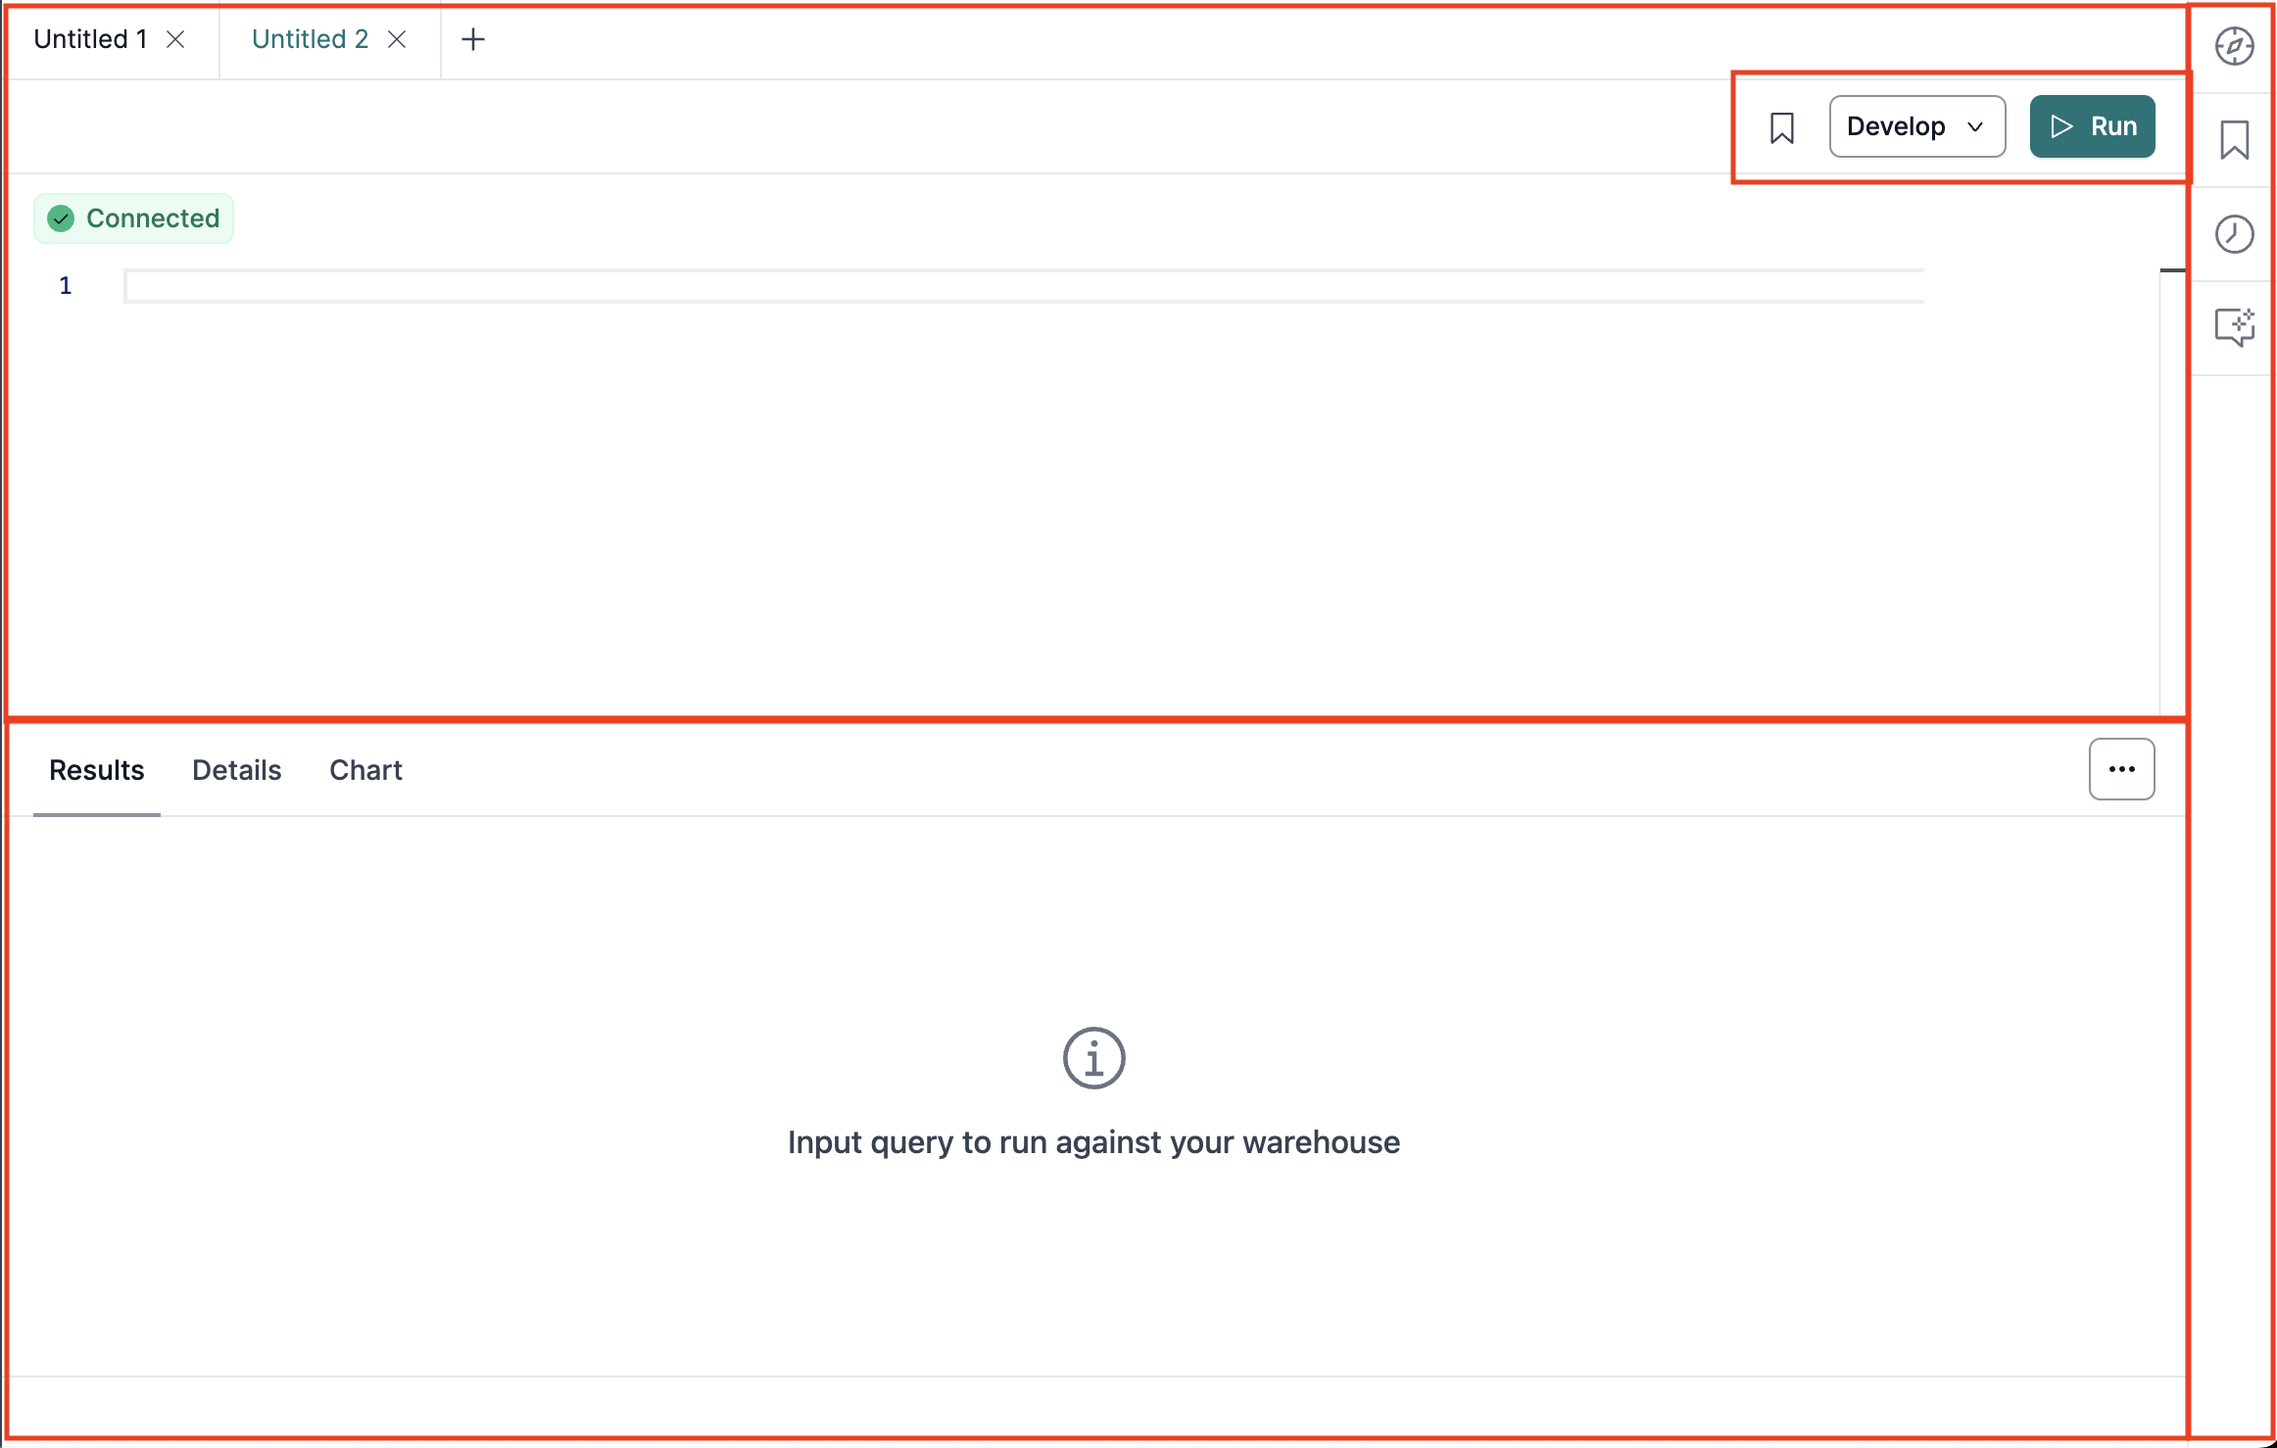
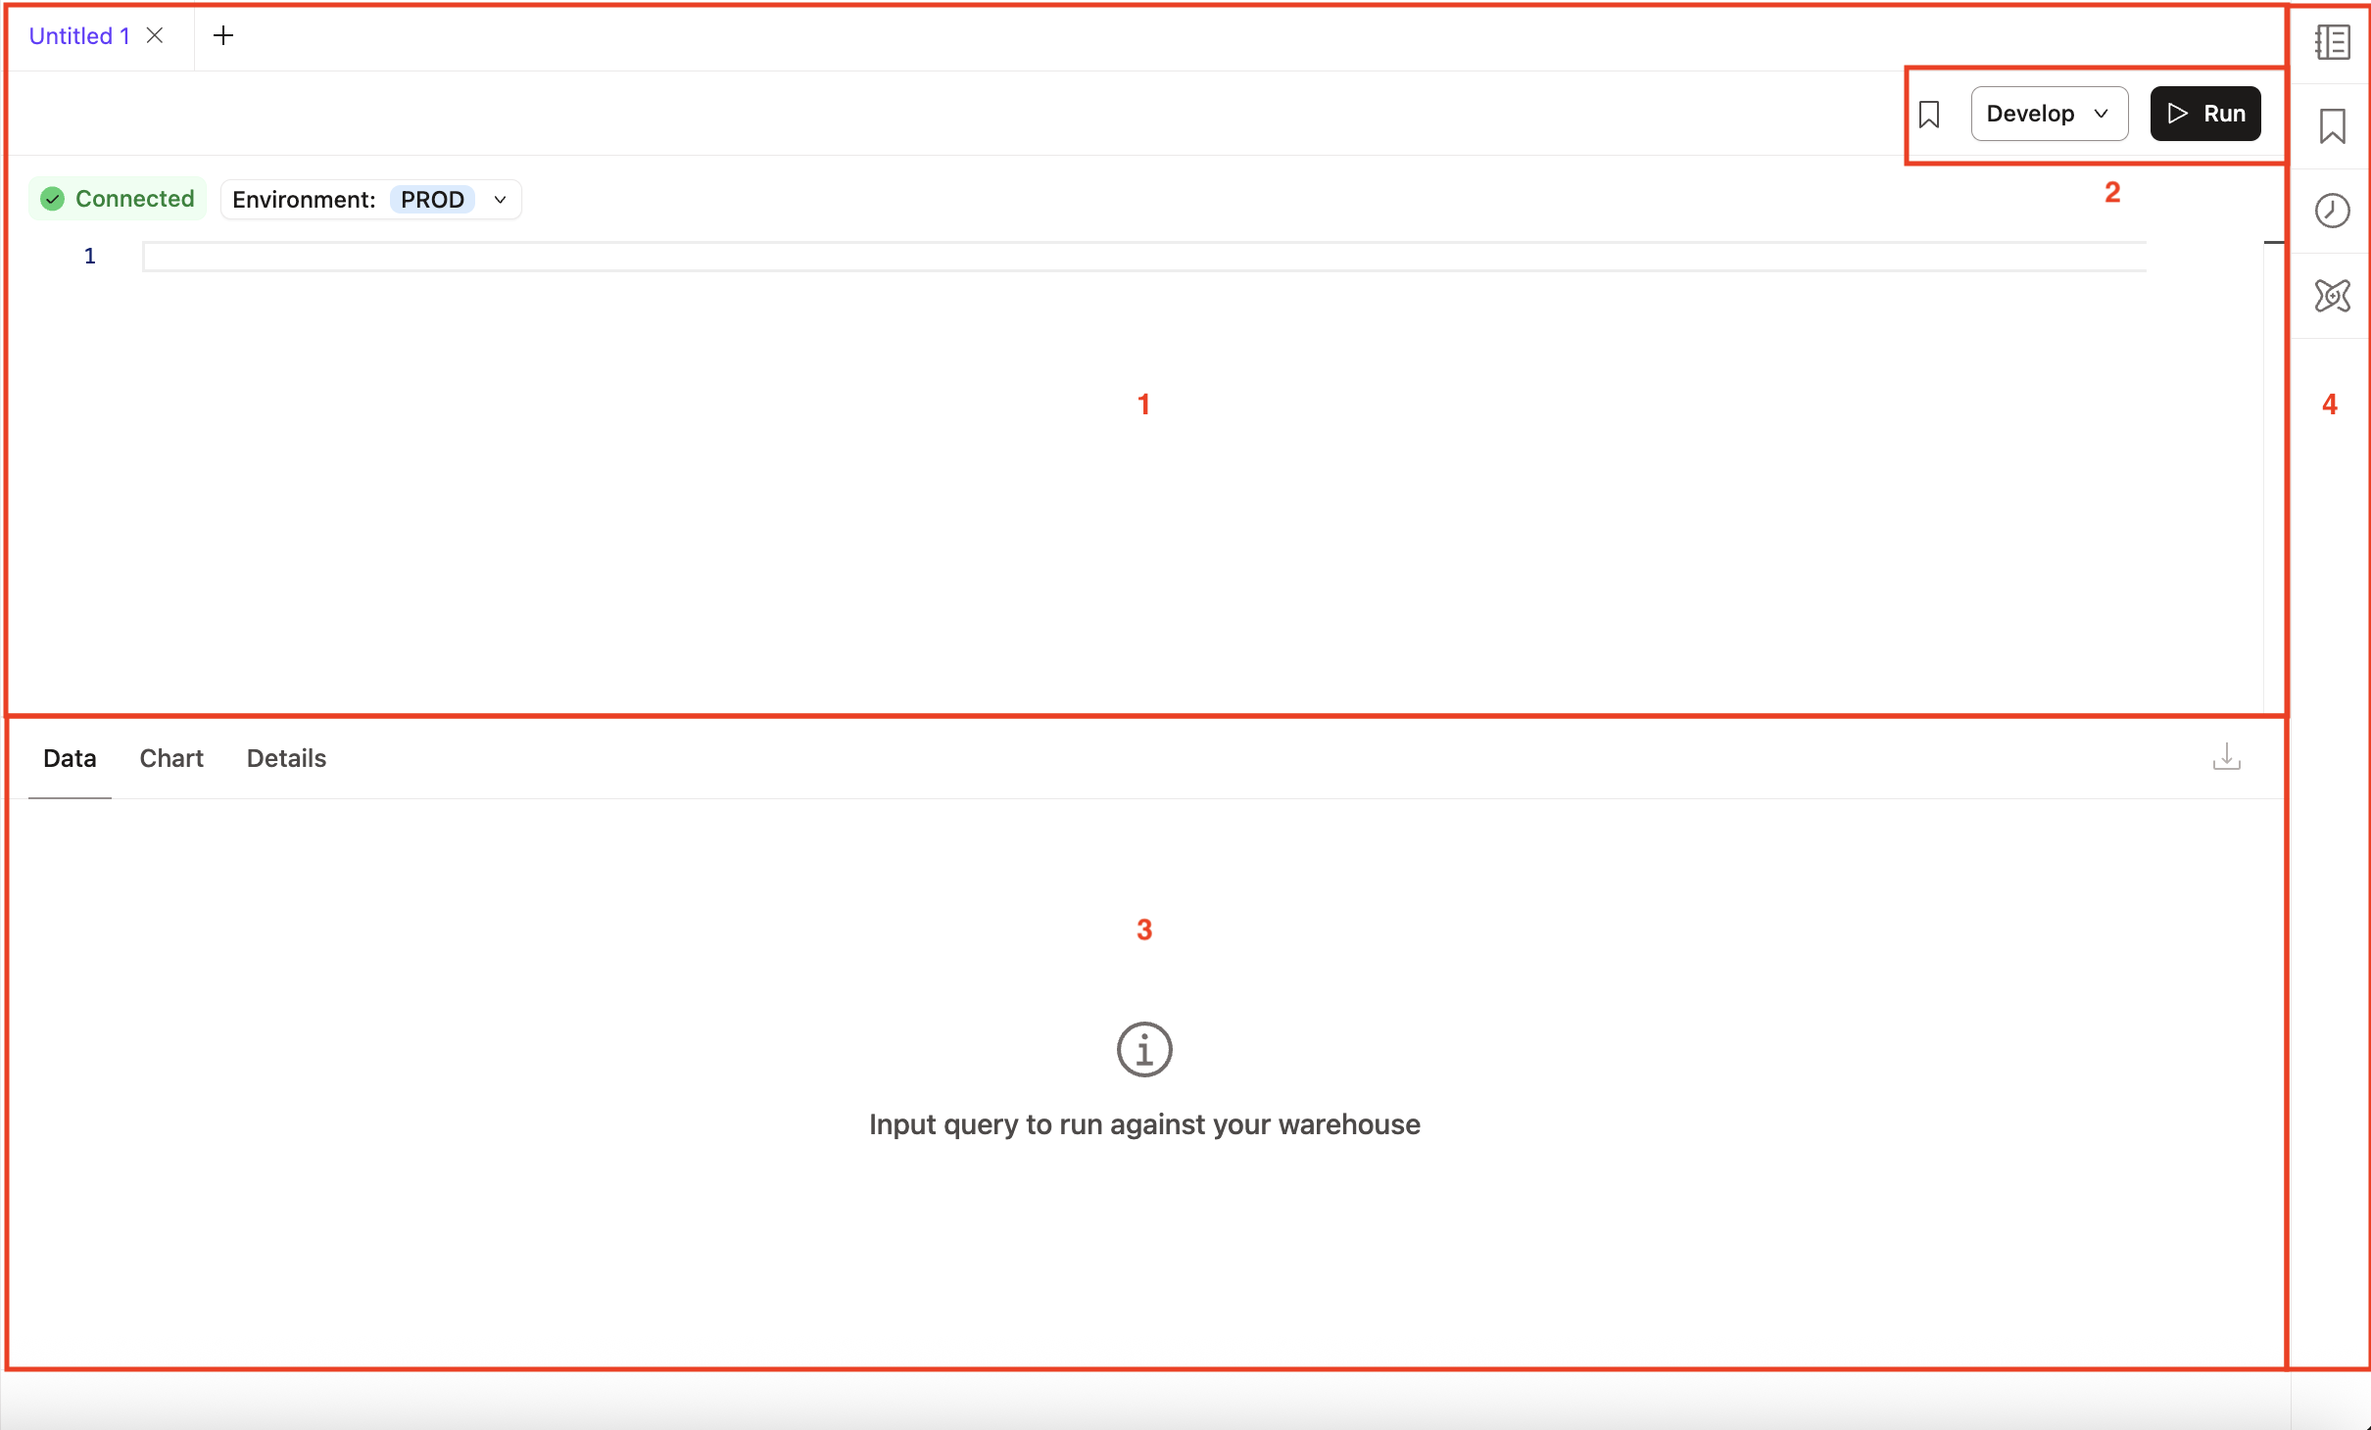
dbt Insights Copilot agent

diff --git a/website/docs/docs/explore/navigate-dbt-insights.md b/website/docs/docs/explore/navigate-dbt-insights.md
@@ -16,13 +16,13 @@ Learn how to navigate <Constant name="query_page" /> interface and use the main 
 
 ## Query console
 The query console is the main component of <Constant name="query_page" />. It allows you to write, run, and analyze SQL queries. The Query console supports:
-- Query console editor, which allows you to write, run, and analyze SQL queries:
+1. Query console editor, which allows you to write, run, and analyze SQL queries:
   - It supports syntax highlighting and autocomplete suggestions 
   - Hyperlink from SQL code `ref` to the corresponding Explorer page
-- [Query console menu](#query-console-menu), which contains **Bookmark (icon)**, **Develop**, and **Run** buttons. 
-- [Query output panel](#query-output-panel), below the query editor and displays the results of a query:
-  - Has three tabs: **Results**, **Details**, and **Chart**, which allow you to analyze query execution and visualize results.
-- [Query console sidebar menu](#query-console-sidebar-menu), which contains the **<Constant name="explorer" />**, **Bookmark**, **Query history**, and **<Constant name="copilot" />** icons.
+2. [Query console menu](#query-console-menu), which contains **Bookmark (icon)**, **Develop**, and **Run** buttons. 
+3. [Query output panel](#query-output-panel), below the query editor and displays the results of a query:
+  - Has three tabs: **Data**, **Chart**, and **Details**, which allow you to analyze query execution and visualize results.
+4. [Query console sidebar menu](#query-console-sidebar-menu), which contains the **<Constant name="explorer" />**, **Bookmark**, **Query history**, and **<Constant name="copilot" />** icons.
 
 <Lightbox src="/img/docs/dbt-insights/insights-main.png" title="dbt Insights main interface with blank query editor" />
 
@@ -34,14 +34,12 @@ The Query console menu is located at the top right of the Query editor. It conta
   - Let [<Constant name="copilot" />](/docs/cloud/dbt-copilot) do the writing for you &mdash; use the AI assistant to automatically generate a helpful description for your bookmark.
   - Access the newly created bookmark from the **Bookmark** icon in the [Query console sidebar menu](#query-console-sidebar-menu). 
  - **Develop**: Open the [<Constant name="cloud_ide" />](/docs/cloud/dbt-cloud-ide/develop-in-the-cloud) or [<Constant name="visual_editor" />](/docs/cloud/canvas) to continue editing your SQL query.
-- **Run** button &mdash; Run your SQL query and view the results in the **Results** tab.
-
-  <Lightbox src="/img/docs/dbt-insights/develop-menu.png" title="dbt Insights Develop menu." />
+- **Run** button &mdash; Run your SQL query and view the results in the **Data** tab.
 
 ## Query output panel
 
 The Query output panel is below the query editor and displays the results of a query. It displays the following tabs to analyze query execution and visualize results:
-- **Results** tab &mdash; Preview your SQL results, with results paginated.
+- **Data** tab &mdash; Preview your SQL results, with results paginated.
 - **Details** tab &mdash; Generates succinct details of executed SQL query:
   - Query metadata &mdash; <Constant name="copilot" />'s AI-generated title and description. Along with the supplied SQL and compiled SQL.
   - Connection details &mdash; Relevant data platform connection information.
@@ -57,17 +55,57 @@ The Query output panel is below the query editor and displays the results of a q
 <Lightbox src="/img/docs/dbt-insights/insights-details.png" width="95%" title="dbt Insights Details tab" />
 <Lightbox src="/img/docs/dbt-insights/insights-chart.png" width="95%" title="dbt Insights Chart tab" />
 </DocCarousel>
+<!--need to update-->
 
 ## Query console sidebar menu
 The Query console sidebar menu and icons contains the following options:
-- **<Constant name="explorer" /> icon** &mdash; View your project's models, columns, metrics, and more using the integrated <Constant name="explorer" /> view.
-- **Bookmark icon** &mdash; Save and access your frequently used queries. 
-- **Query history icon** &mdash; View past queries, their statuses (All, Success, Error, or Pending), start time, and duration. Search for past queries and filter by status. You can also re-run a query from the Query history.
-- **<Constant name="copilot" /> icon** &mdash; Use [<Constant name="copilot" />'s AI assistant](/docs/cloud/dbt-copilot) to modify or generate queries using natural language prompts.
 
-<DocCarousel slidesPerView={1}>
+### dbt Catalog
+
+**<Constant name="explorer" /> icon** &mdash; View your project's models, columns, metrics, and more using the integrated <Constant name="explorer" /> view.
+
 <Lightbox src="/img/docs/dbt-insights/insights-explorer.png" width="90%" title="dbt Insights dbt Catalog icon" />
+<!--need to update-->
+
+### Bookmark 
+
+Save and access your frequently used queries. 
+
+<Lightbox src="/img/docs/dbt-insights/manage-bookmarks.png" width="60%" title="Manage your query bookmarks" /> 
+<!--need to update-->
+
+### Query history
+
+View past queries, their statuses (All, Success, Error, or Pending), start time, and duration. Search for past queries and filter by status. You can also re-run a query from the Query history.
+
 <Lightbox src="/img/docs/dbt-insights/insights-query-history.png" width="90%" title="dbt Insights Query history icon" />
-<Lightbox src="/img/docs/dbt-insights/insights-copilot.png" width="60%" title="dbt Insights dbt Copilot" />
-<Lightbox src="/img/docs/dbt-insights/manage-bookmarks.png" width="60%" title="Manage your query bookmarks" />
-</DocCarousel>
+<!--need to update-->
+
+### dbt Copilot
+
+Use [dbt <Constant name="copilot" />'s AI assistant](/docs/cloud/dbt-copilot) to modify or generate queries using natural language prompts or to chat with the <Constant name="copilot" /> agent to gather insights about your data. The <Constant name="copilot" />'s AI assistant has two tabs:
+
+- **Text to SQL** - Build queries in <Constant name="query_page" /> with natural language prompts to explore and query data with an intuitive, context-rich interface. For more information, see [Build queries](/docs/cloud/use-dbt-copilot#build-queries).
+
+  <!--insert screenshot-->
+
+- **Analysis**<Lifecycle status='preview' /> - Ask questions to the <Constant name="copilot" /> agent to get intelligent data analysis with automated workflows, governed insights, and actionable recommendations. This is a conversational AI feature where you can ask natural language prompts and receive analysis in real-time. Some sample questions: 
+
+  - _What region are my sales growing the fastest?_ 
+  - _What was the revenue last month?_
+  - _How should I optimize my marketing spend next quarter?_
+  - _How many customers do I have, broken down by customer type?_
+
+  The dbt <Constant name="copilot" /> agent creates an analysis plan based on your question. The agent:
+
+  1. Gets context using your semantic models and metrics. 
+  2. Generates SQL queries using your project's definitions.  
+  3. Executes the SQL query and returns results with context.
+  3. Creates visualizations by generating Insights-compatible charts for visual consumption.
+  4. Reviews and summarizes the generated insights and provides a comprehensive answer.
+
+  The <Constant name="copilot" /> agent can loop through these steps multiple times if it hasn't reached a complete answer, allowing for complex, multi-step analysis.
+
+  For more information, see [Analyze data with the dbt <Constant name="copilot" /> agent](/docs/cloud/use-dbt-copilot#analyzet-data-with-the-analyst-agent).
+
+  <!--insert screenshot-->

diff --git a/website/docs/docs/cloud/use-dbt-copilot.md b/website/docs/docs/cloud/use-dbt-copilot.md
@@ -21,6 +21,7 @@ This page explains how to use <Constant name="copilot" /> to:
 - [Generate and edit SQL inline](#generate-and-edit-sql-inline) &mdash; Use natural language prompts to generate SQL code from scratch or to edit existing SQL file by using keyboard shortcuts or highlighting code in the [<Constant name="cloud_ide" />](/docs/cloud/dbt-cloud-ide/develop-in-the-cloud).
 - [Build visual models](#build-visual-models) &mdash; Use <Constant name="copilot" /> to generate models in [<Constant name="visual_editor" />](/docs/cloud/use-canvas) with natural language prompts.
 - [Build queries](#build-queries) &mdash; Use <Constant name="copilot" /> to generate queries in [<Constant name="query_page" />](/docs/explore/dbt-insights) for exploratory data analysis using natural language prompts.
+- [Analyze data with the <Constant name="copilot" /> agent](#analyze-data-with-the-copilot-agent) &mdash; Use <Constant name="copilot" /> to analyze your data and get insights by asking a natural language question to the <Constant name="copilot" /> agent. 
 
 ## Generate resources 
 
@@ -42,7 +43,7 @@ Use <Constant name="copilot" /> to build queries in [<Constant name="query_page"
 
 To begin building SQL queries with natural language prompts in <Constant name="query_page" />:
 
-1. Click on the **<Constant name="copilot" />** icon in Query console sidebar menu.
+1. Click the **<Constant name="copilot" />** icon in the Query console sidebar menu. The **Text to SQL** tab opens. 
 2. In the dbt Copilot prompt box, enter your prompt in natural language for dbt Copilot to build the SQL query you want. <!--You can also reference existing models using the `@` symbol. For example, to build a model that calculates the total price of orders, you can enter `@orders` in the prompt and it'll pull in and reference the `orders` model.-->
 3. Click **Submit** and <Constant name="copilot" /> generates a summary of the SQL query you want to build. To clear the prompt, click on the **Clear** button. To close the prompt box, click the <Constant name="copilot" /> icon again.
 4. <Constant name="copilot" /> will automatically generate the SQL with an explanation of the query. 
@@ -52,3 +53,18 @@ To begin building SQL queries with natural language prompts in <Constant name="q
 6. Confirm the results or continue building your model. 
 
 <Lightbox src="/img/docs/dbt-insights/insights-copilot.gif" width="95%" title="dbt Copilot in dbt Insights" />
+
+## Analyze data with the Copilot agent <Lifecycle status='preview' />
+
+Use <Constant name="copilot" /> to analyze your data and get insights by asking natural language questions to the [<Constant name="query_page" />](/docs/explore/dbt-insights) <Constant name="copilot" /> agent. Before you begin, make sure you can [access <Constant name="query_page" />](/docs/explore/access-dbt-insights).
+
+1. Click the **<Constant name="copilot" />** icon in the Query console sidebar menu.
+2. Go to the **Analysis** tab.
+3. In the dbt <Constant name="copilot" /> prompt box, enter your question.
+4. Click **Submit**.
+
+   The <Constant name="copilot" /> agent creates an analysis plan that includes checking the existing Semantic Layer metrics, querying the metrics if available, and returning results with references, assumptions, and possible next steps. 
+
+   The <Constant name="copilot" /> agent can loop through these steps multiple times if it hasn't reached a complete answer, allowing for complex, multi-step analysis.
+
+5. Confirm the results or continue asking the <Constant name="copilot" /> agent for more insights about your data. 

diff --git a/website/docs/docs/explore/access-dbt-insights.md b/website/docs/docs/explore/access-dbt-insights.md
@@ -16,7 +16,7 @@ Learn how to access <Constant name="query_page" />, run queries, and view result
 - Enable you to write SQL queries, with the option to open multiple tabs 
 - Have SQL + dbt autocomplete suggestions and syntax highlighting
 - Save SQL queries
-- View the results of the query and its details using the **Results** or **Details** tabs
+- View the results of the query and its details using the **Data** or **Details** tabs
 - Create a visualization of your query results using the **Chart** tab
 - View the history of queries and their statuses (like Success, Error, Pending) using the **Query history** tab
 - Use <Constant name="copilot" /> to generate or edit SQL queries using natural language prompts
@@ -86,7 +86,7 @@ To make things easier, [use <Constant name="copilot" />](/docs/cloud/use-dbt-cop
 
 From here, you can:
 - Continue building or modifying the query using <Constant name="copilot" />
-- Explore the [results](#view-results) in the **Results** tab
+- Explore the [results](#view-results) in the **Data** tab
 - [View metadata and query details](#view-details) in the **Details** tab
 - [Visualize results](#chart-results) in the **Chart** tab
 - Check the [**Query history**](#query-history) for status and past runs
@@ -101,7 +101,7 @@ You can access the [<Constant name="cloud_ide" />](/docs/cloud/dbt-cloud-ide/dev
 
 Using the same example, you can perform some exploratory data analysis by running the query and:
 
-- Viewing results in **Results** tab &mdash; View the paginated results of the query.
+- Viewing results in **Data** tab &mdash; View the paginated results of the query.
 - Sorting results &mdash; Click on the column header to sort the results by that column.
 - Exporting to CSV &mdash; On the top right of the table, click the download button to export the dataset.
 <Lightbox src="/img/docs/dbt-insights/insights-export-csv.png" width="95%" title="dbt Insights Export to CSV" />

diff --git a/website/docs/guides/analyze-data-qs.md b/website/docs/guides/analyze-data-qs.md
@@ -107,7 +107,7 @@ She's happy with the results and clicks **Details** to see the AI-generated repo
 
 <Lightbox src="/img/guides/analyst-qs/details.png" width="90%" title="Details report tabe" />
 
-Once she's ready to get the insight to her stakeholder, she clicks **Chart** to view the chart prefilled with the data from the **Results** tab. 
+Once she's ready to get the insight to her stakeholder, she clicks **Chart** to view the chart prefilled with the data from the **Data** tab. 
 
 She adds x- and y-axis labels, such as "Month of first order" and "Total new customers" to make it more comprehensible for the final report she'll share with her stakeholder. Next, she takes a screenshot to share with them.
 
